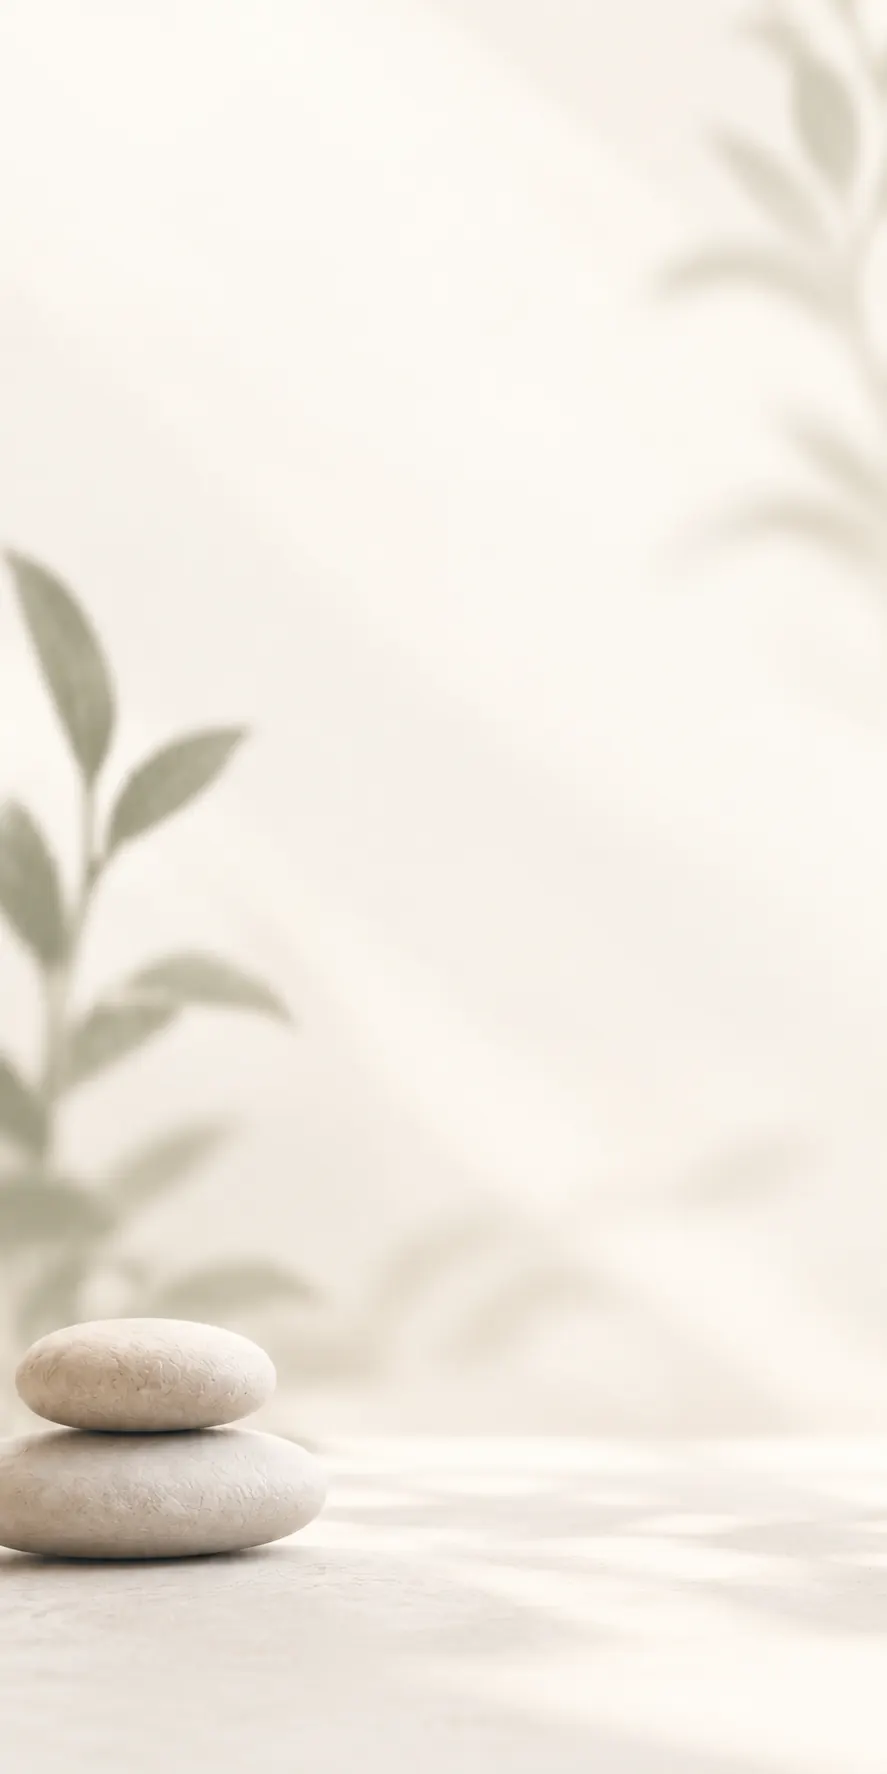
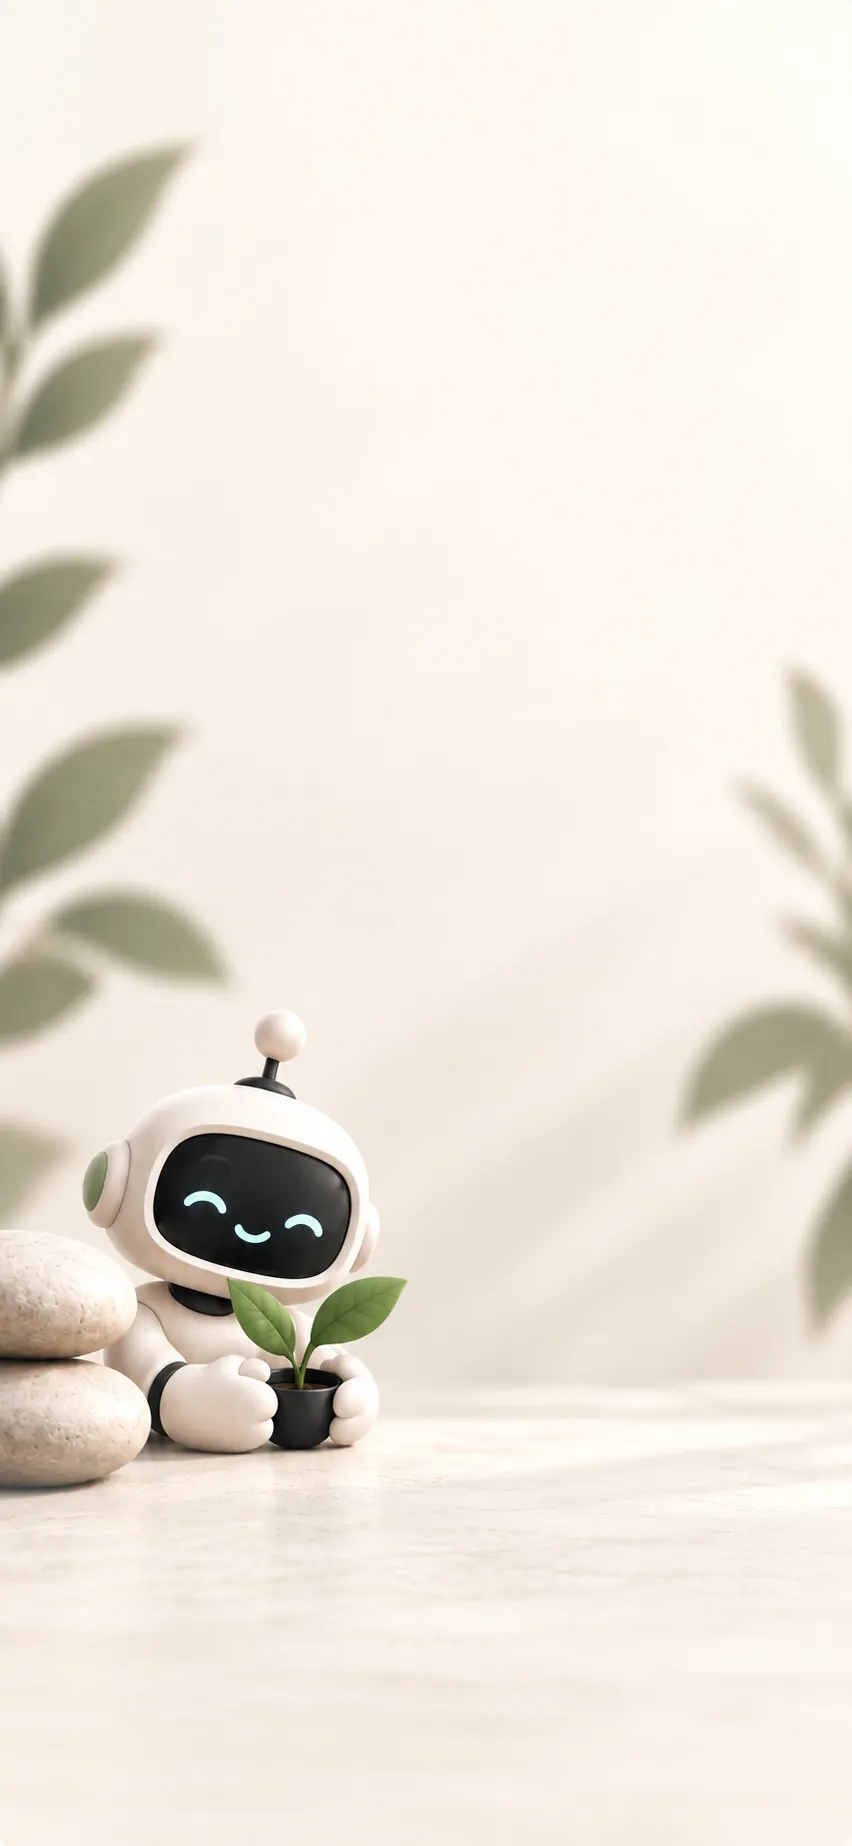
Put the robot beside a smaller phone on the mobile landing page

diff --git a/index.html b/index.html
@@ -699,16 +699,24 @@
 
       /* ---------- Narrow phones ---------- */
 
-      /* No room beside the handset: the phone keeps the full width and the
-         note steps aside. The wide photograph is anchored on its stones and
-         leaves, which sit at its left edge. */
+      /* No room beside the handset: the note steps aside, and a tall
+         photograph puts the robot on the left of a smaller phone. */
       @media (max-width: 34rem) {
         .hero {
-          background-position: 16% bottom;
+          background-image: url("/assets/landing-bg-mobile.webp");
+          /* Lowered and nudged left so the robot sits beside the handset,
+             not behind it; the stones may crop at the edge */
+          background-size: 110% auto;
+          background-position: -10vw calc(100% + 9rem);
         }
 
+        /* The same handset shrunk as a whole, so nothing inside it reflows,
+           and set to the right so the robot stays in view */
         .stage {
-          width: min(100% - 1rem, 20rem);
+          width: 20rem;
+          zoom: 0.74;
+          margin-right: -0.25rem;
+          margin-left: auto;
         }
 
         .note {
